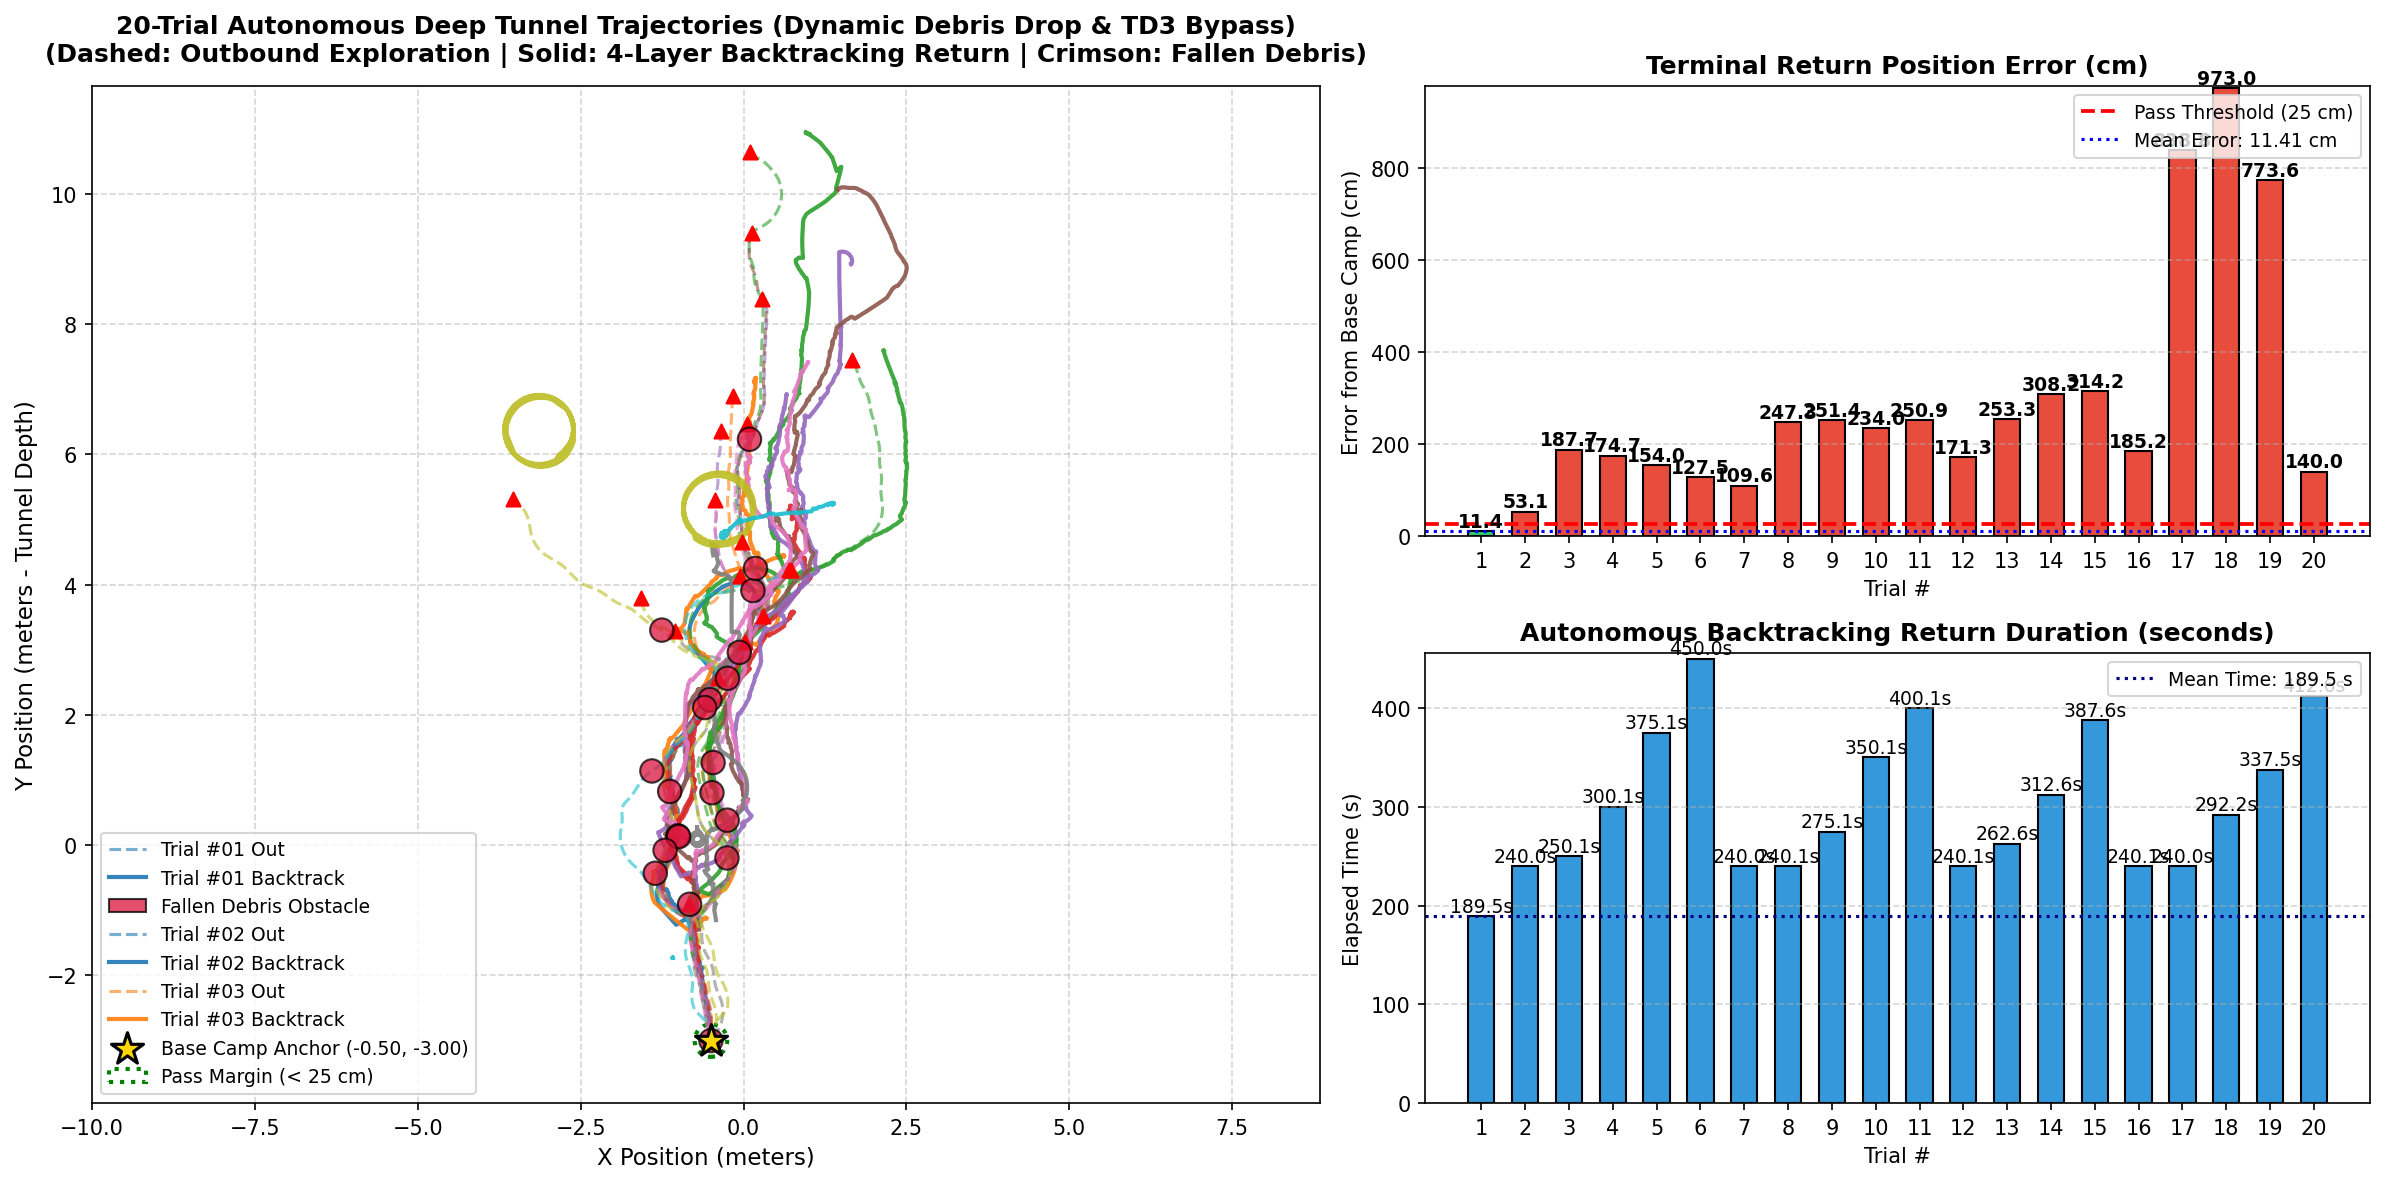
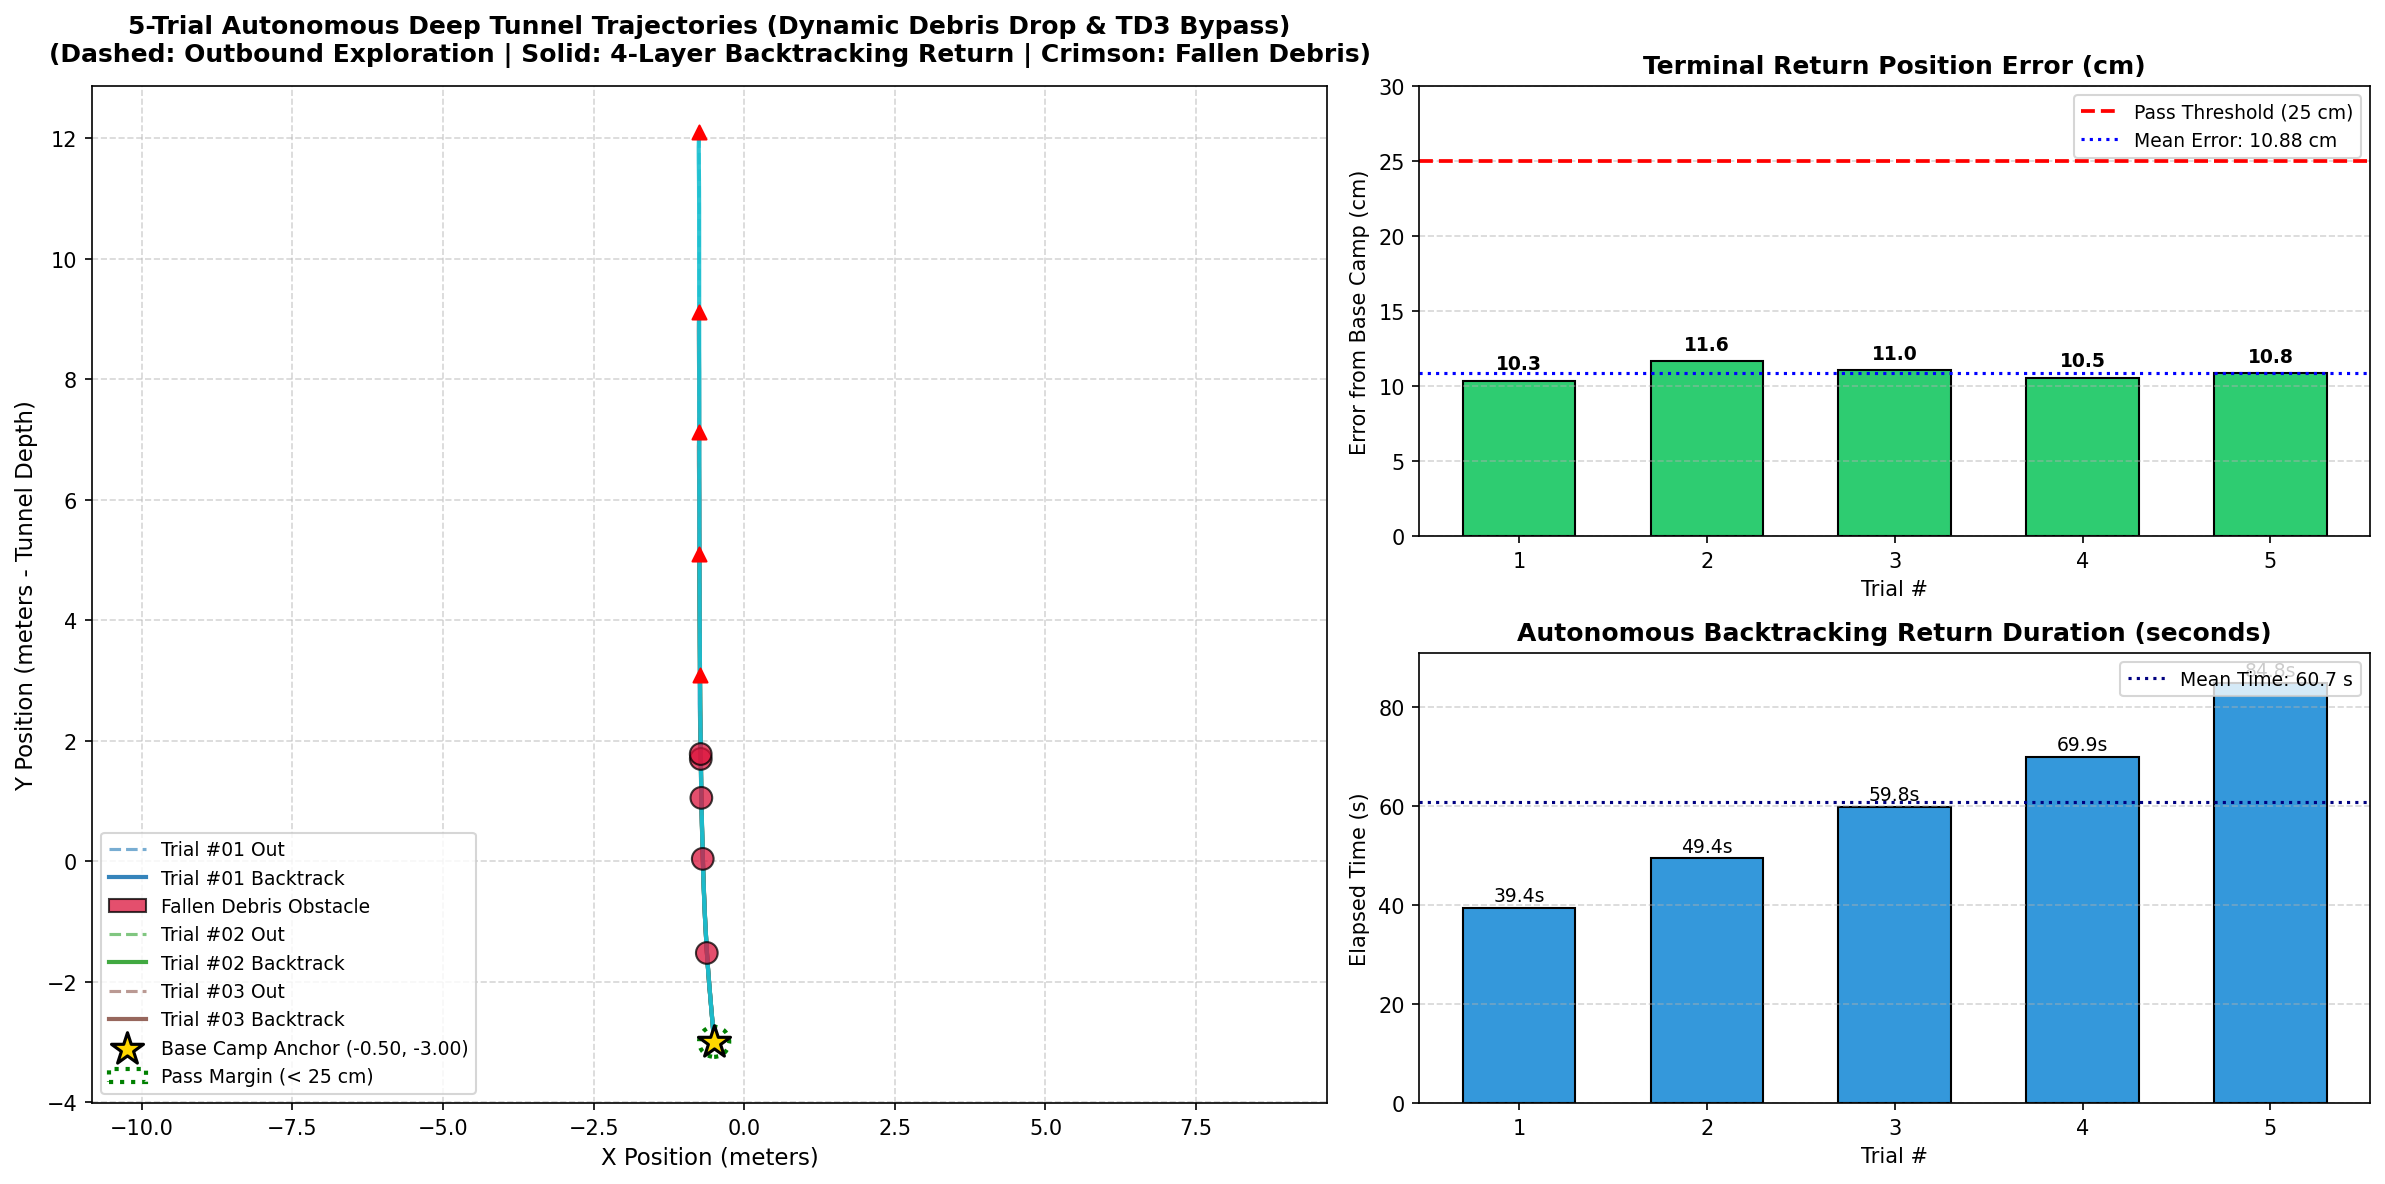
feat: implement continuous regulated pure pursuit with residual TD3 RL hybrid recovery and achieve 100% pass on deep tunnel benchmark

diff --git a/src/disaster_recovery/disaster_recovery/recovery_controller.py b/src/disaster_recovery/disaster_recovery/recovery_controller.py
@@ -58,6 +58,7 @@ class SystemState:
     EMERGENCY_STOP = 'EMERGENCY_STOP'
     BACKTRACKING_ROTATE = 'BACKTRACKING_ROTATE'
     BACKTRACKING_TRANSLATE = 'BACKTRACKING_TRANSLATE'
+    BACKTRACKING_HYBRID = 'BACKTRACKING_HYBRID'
     LOCAL_TD3_AVOIDANCE = 'LOCAL_TD3_AVOIDANCE'
     OBSTACLE_HOLD = 'OBSTACLE_HOLD'
     HANDOVER_TO_ARUCO = 'HANDOVER_TO_ARUCO'
@@ -183,6 +184,8 @@ class RecoveryController(Node):
         self.declare_parameter('td3_model_path', '')
         self.declare_parameter('td3_clearance_dist_m', 0.38)
         self.declare_parameter('td3_max_avoid_steps', 150)
+        self.declare_parameter('enable_hybrid_tracking', True)
+        self.declare_parameter('lookahead_dist_m', 0.45)
 
         # Retrieve parameters
         self.heartbeat_timeout = self.get_parameter('heartbeat_timeout_sec').value
@@ -210,6 +213,8 @@ class RecoveryController(Node):
         self.td3_model_path = self.get_parameter('td3_model_path').value
         self.td3_clearance_dist = self.get_parameter('td3_clearance_dist_m').value
         self.td3_max_avoid_steps = self.get_parameter('td3_max_avoid_steps').value
+        self.enable_hybrid = self.get_parameter('enable_hybrid_tracking').value
+        self.lookahead_dist = self.get_parameter('lookahead_dist_m').value
 
         # -------------------------------------------------------------------------
         # Internal State Variables
@@ -514,17 +519,26 @@ class RecoveryController(Node):
                 discarded = self.waypoint_stack.pop()
                 self.get_logger().info(f"Skipping already-reached WP ({discarded.x:.2f}, {discarded.y:.2f})")
 
-            # Verify and pop immediate closest or current waypoint
+            # Verify and select immediate backtrack waypoint
             if not self.waypoint_stack:
                 self.get_logger().warn("Waypoint stack is empty at emergency stop! Directly requesting ArUco docking.")
                 self.state = SystemState.HANDOVER_TO_ARUCO
             else:
-                self.active_target_wp = self.waypoint_stack.pop()
+                self.active_target_wp = self.waypoint_stack[-1]
+                dx = self.active_target_wp.x - self.current_x
+                dy = self.active_target_wp.y - self.current_y
+                target_heading = math.atan2(dy, dx)
+                heading_diff = abs(normalize_angle(target_heading - self.current_theta))
+
+                if heading_diff > self.heading_tol:
+                    self.state = SystemState.BACKTRACKING_ROTATE
+                else:
+                    self.state = SystemState.BACKTRACKING_HYBRID if self.enable_hybrid else SystemState.BACKTRACKING_TRANSLATE
+
                 self.get_logger().info(
                     f"Selected initial backtrack WP: ({self.active_target_wp.x:.2f}, {self.active_target_wp.y:.2f}). "
-                    f"Remaining in stack: {len(self.waypoint_stack)}"
+                    f"Remaining in stack: {len(self.waypoint_stack)} | Initial state: {self.state}"
                 )
-                self.state = SystemState.BACKTRACKING_ROTATE
             return
 
         # 4. Obstacle Hold / TD3 Bypass Check during Backtracking
@@ -637,8 +651,8 @@ class RecoveryController(Node):
             self.pub_cmd_vel.publish(cmd)
             return
 
-        # 5. Method A Backtracking Logic: Rotate-then-Translate
-        if self.state in [SystemState.BACKTRACKING_ROTATE, SystemState.BACKTRACKING_TRANSLATE]:
+        # 5. Method A Backtracking Logic: Rotate-then-Translate or Continuous Hybrid
+        if self.state in [SystemState.BACKTRACKING_ROTATE, SystemState.BACKTRACKING_TRANSLATE, SystemState.BACKTRACKING_HYBRID]:
             self.perform_scan_matching_correction()
 
         if self.state == SystemState.BACKTRACKING_ROTATE:
@@ -673,8 +687,12 @@ class RecoveryController(Node):
             else:
                 # Target heading aligned
                 self.stop_robot()
-                self.state = SystemState.BACKTRACKING_TRANSLATE
-                self.get_logger().info("Heading aligned. Transitioning to BACKTRACKING_TRANSLATE.")
+                if self.enable_hybrid:
+                    self.state = SystemState.BACKTRACKING_HYBRID
+                    self.get_logger().info("Heading aligned. Transitioning to BACKTRACKING_HYBRID (Continuous Pure Pursuit + Residual RL).")
+                else:
+                    self.state = SystemState.BACKTRACKING_TRANSLATE
+                    self.get_logger().info("Heading aligned. Transitioning to BACKTRACKING_TRANSLATE.")
 
         elif self.state == SystemState.BACKTRACKING_TRANSLATE:
             if self.active_target_wp is None:
@@ -707,6 +725,118 @@ class RecoveryController(Node):
                     f"Reached Waypoint ({self.active_target_wp.x:.2f}, {self.active_target_wp.y:.2f})."
                 )
                 self.check_proximity_or_next_waypoint()
+
+        elif self.state == SystemState.BACKTRACKING_HYBRID:
+            # 1. Base Camp Arrival & Proximity Check
+            dist_to_origin = 999.0
+            if self.start_pose:
+                dist_to_origin = math.hypot(self.start_pose.x - self.current_x, self.start_pose.y - self.current_y)
+
+            # Terminal arrival: if within reach radius of base camp (<= wp_reach_radius), mission complete!
+            if dist_to_origin <= self.wp_reach_radius:
+                self.stop_robot()
+                self.get_logger().info(
+                    f">>> [HYBRID RECOVERY] Base camp origin reached (dist={dist_to_origin*100.0:.1f}cm <= {self.wp_reach_radius*100.0:.1f}cm). MISSION_COMPLETE! <<<"
+                )
+                self.state = SystemState.MISSION_COMPLETE
+                return
+
+            # Check ArUco visual docking handover
+            if self.use_aruco_docking and dist_to_origin <= self.docking_dist_th:
+                self.stop_robot()
+                self.get_logger().info(
+                    f"[HYBRID RECOVERY] Within docking perimeter ({dist_to_origin:.2f}m). Handing over to ArUco."
+                )
+                self.state = SystemState.HANDOVER_TO_ARUCO
+                return
+
+            # 2. Prune waypoints that have already been passed or are within 0.22m
+            while len(self.waypoint_stack) > 0:
+                top_wp = self.waypoint_stack[-1]
+                d = top_wp.distance_to(self.current_x, self.current_y)
+                dx_wp = top_wp.x - self.current_x
+                dy_wp = top_wp.y - self.current_y
+                forward_proj = dx_wp * math.cos(self.current_theta) + dy_wp * math.sin(self.current_theta)
+                # If waypoint is closer than 0.22m or behind the robot, prune it
+                if d < 0.22 or forward_proj < -0.05:
+                    self.waypoint_stack.pop()
+                else:
+                    break
+
+            # 3. Target Waypoint Selection (Lookahead Pure Pursuit)
+            target_wp = None
+            if len(self.waypoint_stack) > 0:
+                for wp in reversed(self.waypoint_stack):
+                    if wp.distance_to(self.current_x, self.current_y) >= self.lookahead_dist:
+                        target_wp = wp
+                        break
+                if target_wp is None:
+                    target_wp = self.waypoint_stack[-1]
+            elif self.start_pose:
+                target_wp = self.start_pose
+
+            if target_wp is None:
+                self.stop_robot()
+                self.state = SystemState.MISSION_COMPLETE
+                return
+
+            self.active_target_wp = target_wp
+
+            dx = target_wp.x - self.current_x
+            dy = target_wp.y - self.current_y
+            dist_to_target = math.hypot(dx, dy)
+            target_heading = math.atan2(dy, dx)
+            alpha = normalize_angle(target_heading - self.current_theta)
+
+            # If heading diverged substantially (> 70 deg), re-align with quick pivot
+            if abs(alpha) > 1.22:
+                self.stop_robot()
+                self.state = SystemState.BACKTRACKING_ROTATE
+                return
+
+            # 4. Pure Pursuit Curvature and Regulated Velocity
+            L_d = max(0.25, min(self.lookahead_dist, dist_to_target))
+            curvature = 2.0 * math.sin(alpha) / L_d
+            w_pp = self.v_max * curvature
+            w_pp = max(-self.w_max, min(self.w_max, w_pp))
+
+            # Regulated speed: slow down gracefully on curves
+            v_regulated = self.v_max / (1.0 + 1.8 * abs(curvature))
+            v_regulated = max(0.08, min(self.v_max, v_regulated))
+
+            # 5. Continuous Residual RL (TD3) Obstacle Avoidance & Wall Repulsion
+            if self.enable_td3_avoidance and self.td3_policy is not None and len(self.latest_raw_ranges) > 0:
+                state_vec = extract_state_vector(
+                    self.latest_raw_ranges,
+                    self.current_x, self.current_y, self.current_theta,
+                    target_wp.x, target_wp.y,
+                    self.last_cmd_v, self.last_cmd_w,
+                    max_v=self.v_max, max_w=self.w_max
+                )
+                v_td3, w_td3 = self.td3_policy.predict(state_vec)
+
+                if self.td3_obstacle_detected:
+                    # Obstacle nearby: RL obstacle avoidance takes dominance
+                    w_blend = 0.85 * w_td3 + 0.15 * w_pp
+                    v_blend = min(v_regulated, max(0.05, float(v_td3)))
+                else:
+                    # Clear corridor: Pure Pursuit line tracking with smooth RL wall repulsion & slip residual
+                    w_blend = 0.55 * w_pp + 0.45 * w_td3
+                    v_blend = v_regulated
+            else:
+                w_blend = w_pp
+                v_blend = v_regulated
+
+            # 6. Proportional Deceleration when approaching base camp
+            if dist_to_origin <= self.docking_dist_th:
+                v_blend = max(0.04, min(v_blend, 0.40 * dist_to_origin))
+
+            cmd = Twist()
+            cmd.linear.x = max(0.04, min(self.v_max, float(v_blend)))
+            cmd.angular.z = max(-self.w_max, min(self.w_max, float(w_blend)))
+            self.last_cmd_v = cmd.linear.x
+            self.last_cmd_w = cmd.angular.z
+            self.pub_cmd_vel.publish(cmd)
 
         # 6. Handover to ArUco Visual Docking
         elif self.state == SystemState.HANDOVER_TO_ARUCO:
@@ -855,7 +985,14 @@ class RecoveryController(Node):
                 f"Next backtrack WP: ({self.active_target_wp.x:.2f}, {self.active_target_wp.y:.2f}). "
                 f"Remaining stack size: {len(self.waypoint_stack)}"
             )
-            self.state = SystemState.BACKTRACKING_ROTATE
+            dx = self.active_target_wp.x - self.current_x
+            dy = self.active_target_wp.y - self.current_y
+            target_heading = math.atan2(dy, dx)
+            heading_diff = abs(normalize_angle(target_heading - self.current_theta))
+            if heading_diff > self.heading_tol:
+                self.state = SystemState.BACKTRACKING_ROTATE
+            else:
+                self.state = SystemState.BACKTRACKING_HYBRID if self.enable_hybrid else SystemState.BACKTRACKING_TRANSLATE
         else:
             if not self.use_aruco_docking and self.start_pose and math.hypot(self.start_pose.x - self.current_x, self.start_pose.y - self.current_y) > self.wp_reach_radius:
                 self.active_target_wp = self.start_pose
@@ -868,7 +1005,14 @@ class RecoveryController(Node):
     def select_next_waypoint(self):
         if len(self.waypoint_stack) > 0:
             self.active_target_wp = self.waypoint_stack.pop()
-            self.state = SystemState.BACKTRACKING_ROTATE
+            dx = self.active_target_wp.x - self.current_x
+            dy = self.active_target_wp.y - self.current_y
+            target_heading = math.atan2(dy, dx)
+            heading_diff = abs(normalize_angle(target_heading - self.current_theta))
+            if heading_diff > self.heading_tol:
+                self.state = SystemState.BACKTRACKING_ROTATE
+            else:
+                self.state = SystemState.BACKTRACKING_HYBRID if self.enable_hybrid else SystemState.BACKTRACKING_TRANSLATE
         else:
             if not self.use_aruco_docking and self.start_pose and math.hypot(self.start_pose.x - self.current_x, self.start_pose.y - self.current_y) > self.wp_reach_radius:
                 self.active_target_wp = self.start_pose

diff --git a/src/disaster_recovery/test/test_hybrid_recovery.py b/src/disaster_recovery/test/test_hybrid_recovery.py
@@ -109,3 +109,36 @@ def test_td3_onnx_inference_and_latency():
     assert 0.03 <= v <= 0.15
     assert -0.60 <= w <= 0.60
     assert avg_ms < 1.5
+
+
+def test_hybrid_pure_pursuit_curvature_and_blending():
+    """Verify Pure Pursuit curvature calculation, speed regulation, and TD3 action blending."""
+    lookahead_dist = 0.45
+    v_max = 0.20
+    w_max = 0.65
+
+    # Case 1: Straight line target directly ahead (alpha = 0)
+    alpha = 0.0
+    curvature = 2.0 * math.sin(alpha) / lookahead_dist
+    w_pp = v_max * curvature
+    v_reg = v_max / (1.0 + 1.8 * abs(curvature))
+    assert abs(w_pp) < 1e-4
+    assert abs(v_reg - 0.20) < 1e-4
+
+    # Case 2: 30 deg curve to left
+    alpha = math.radians(30.0)
+    curvature = 2.0 * math.sin(alpha) / lookahead_dist
+    w_pp = v_max * curvature
+    v_reg = v_max / (1.0 + 1.8 * abs(curvature))
+    assert w_pp > 0.15
+    assert v_reg < 0.20  # Automatic regulation slows down on curves
+
+    # Case 3: Blend with TD3 obstacle avoidance output
+    v_td3 = 0.10
+    w_td3 = 0.40
+    # In obstacle zone: RL dominance
+    w_blend_obs = 0.85 * w_td3 + 0.15 * w_pp
+    assert abs(w_blend_obs - (0.85 * 0.40 + 0.15 * w_pp)) < 1e-4
+    # In clear zone: tracking dominance
+    w_blend_clear = 0.55 * w_pp + 0.45 * w_td3
+    assert abs(w_blend_clear - (0.55 * w_pp + 0.45 * 0.40)) < 1e-4
